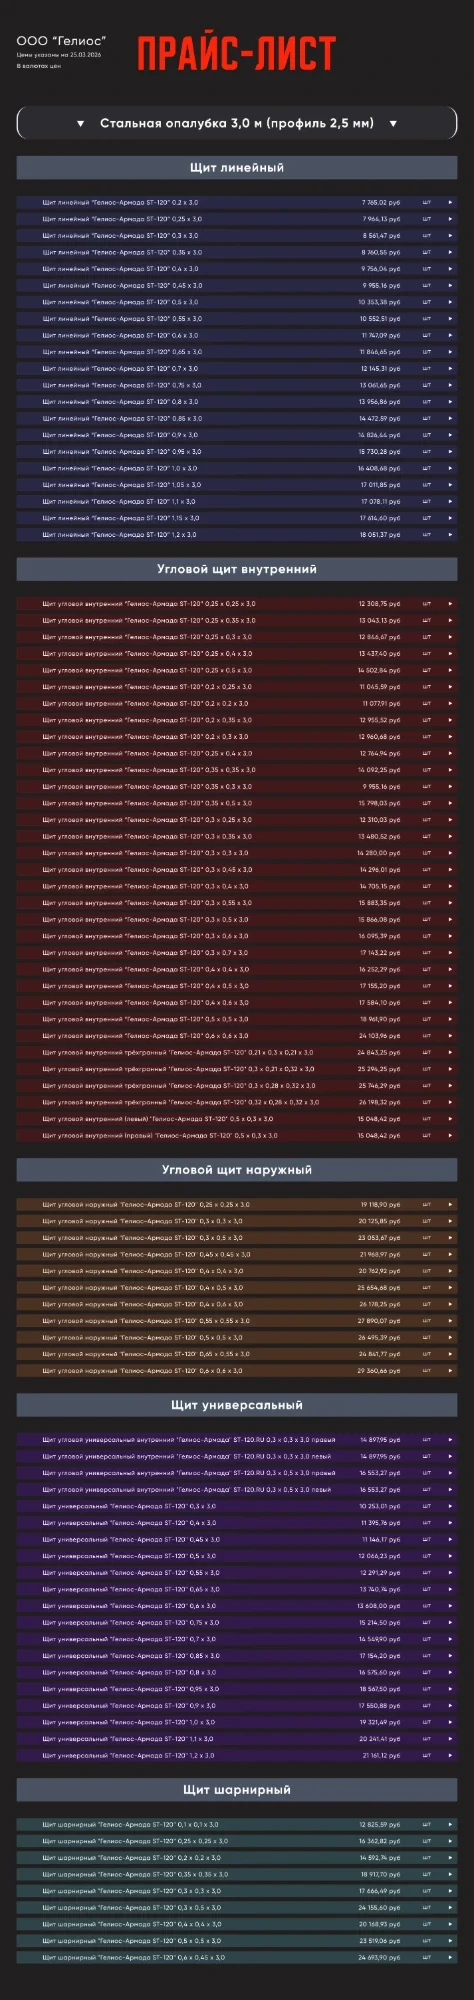
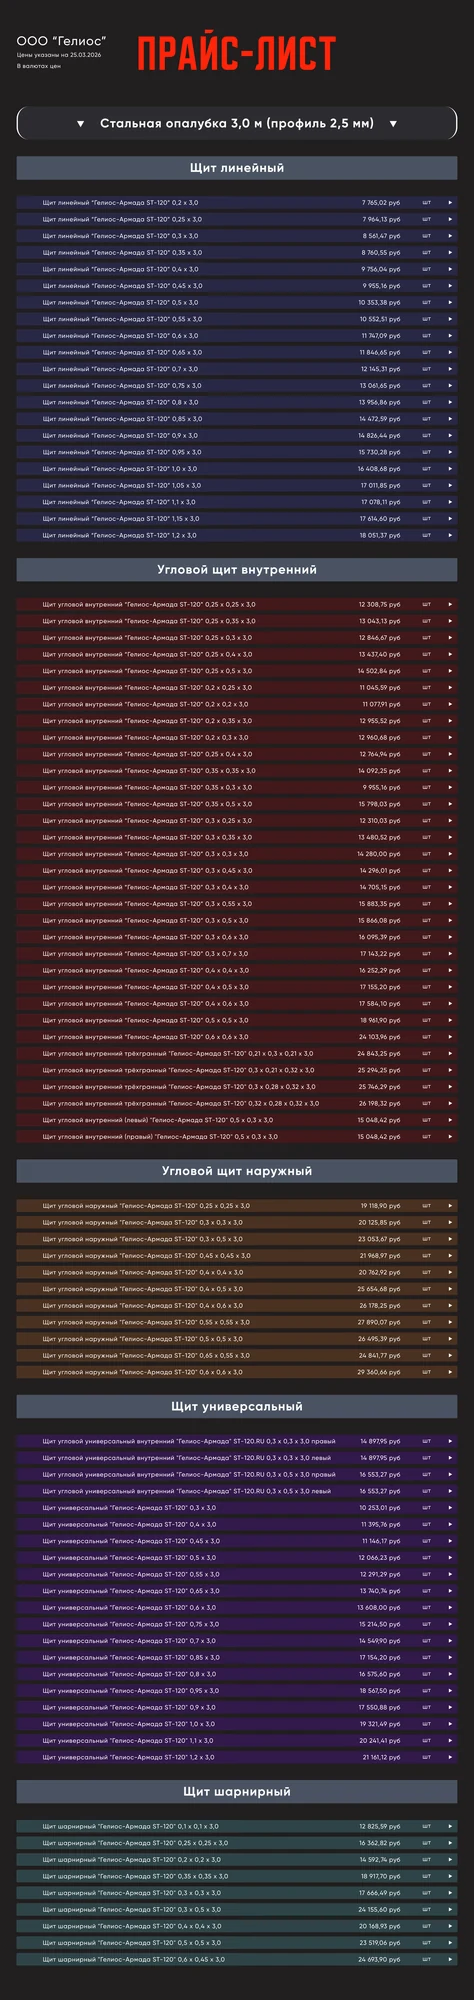
Прайс «после» в высоком разрешении: 3 части, склеиваются в окне просмотра
Claude-Session: https://claude.ai/code/session_01AWjKYXNcaWyZxq1zPrVMAa

diff --git a/assets/js/main.js b/assets/js/main.js
@@ -676,7 +676,16 @@
       var cap = state.caps[state.i];
       lbCap.hidden = !cap;
       lbCap.textContent = cap || "";
-      lbImg.src = state.list[state.i];
+      // слайд может состоять из нескольких частей (длинный прайс): их показываем подряд
+      var parts = state.list[state.i].split(",");
+      Array.prototype.slice.call(lbFrame.querySelectorAll(".lightbox__part")).forEach(function (e) { e.remove(); });
+      lbImg.src = parts[0];
+      parts.slice(1).forEach(function (src) {
+        var im = document.createElement("img");
+        im.className = "lightbox__img lightbox__part is-tall"; im.src = src; im.alt = ""; im.decoding = "async";
+        lbFrame.appendChild(im);
+      });
+      lbFrame.classList.toggle("is-multi", parts.length > 1);
       lbImg.alt = state.title + " — слайд " + (state.i + 1) + " из " + n;
       lbCount.textContent = (state.i + 1) + " / " + n;
       prev.hidden = next.hidden = lbThumbs.hidden = lbCount.hidden = n < 2;
@@ -702,7 +711,7 @@
           b.className = "lightbox__thumb";
           b.setAttribute("aria-label", "Слайд " + (k + 1));
           var t = document.createElement("img");
-          t.src = src; t.alt = ""; t.loading = "lazy";
+          t.src = src.split(",")[0]; t.alt = ""; t.loading = "lazy";
           t.onload = function () { b.classList.toggle("is-wide", t.naturalWidth > t.naturalHeight * 1.05); };
           b.appendChild(t);
           b.addEventListener("click", function () { state.i = k; render(); });
@@ -751,11 +760,12 @@
       var n = +el.dataset.slides, base = el.dataset.base || "assets/img/portfolio/" + el.dataset.work + "/";
       var list = [];
       for (var i = 1; i <= n; i++) list.push(base + i + ".webp");
+      if (el.dataset.parts) el.dataset.parts.split("|").forEach(function (p, k) { if (p) list[k] = p.split(",").map(function (x) { return base + x; }).join(","); });
       var loaded = false;
       el.addEventListener("pointerenter", function () {
         if (loaded) return;
         loaded = true;
-        list.slice(1, 4).forEach(function (src) { var im = new Image(); im.src = src; });
+        list.slice(1, 4).forEach(function (src) { var im = new Image(); im.src = src.split(",")[0]; });
       });
       var caps = el.dataset.captions ? el.dataset.captions.split("|") : [];
       el.addEventListener("click", function () { lightbox.open(el.dataset.title, list, 0, el, caps); });

diff --git a/index.html b/index.html
@@ -523,7 +523,7 @@
             <span class="work__plate"><b>Каталог компании «Гелиос»</b><span>33 страницы · 2 цвета</span></span>
             <span class="swatches" aria-hidden="true"><i class="swatch swatch--white is-on"></i><i class="swatch swatch--black"></i><small>2 цвета</small></span>
           </button>
-          <button class="exhibit exhibit--price" type="button" data-work="price" data-base="assets/img/attic/price/" data-slides="2" data-title="Преобразование прайса компании «Гелиос»" data-captions="Мелкий прайс в Excel|Стильный прайс с цветовым разделением блоков" data-reveal aria-label="Преобразование прайса компании «Гелиос» — открыть">
+          <button class="exhibit exhibit--price" type="button" data-work="price" data-base="assets/img/attic/price/" data-slides="2" data-parts="|after-1.webp,after-2.webp,after-3.webp" data-title="Преобразование прайса компании «Гелиос»" data-captions="Мелкий прайс в Excel|Стильный прайс с цветовым разделением блоков" data-reveal aria-label="Преобразование прайса компании «Гелиос» — открыть">
             <span class="exhibit__stage">
               <span class="price-strip price-strip--before"><img src="assets/img/attic/price/1.webp" alt="Прайс до: таблица в Excel" width="840" height="2000" loading="lazy" decoding="async"></span>
               <span class="price-strip price-strip--after"><img src="assets/img/attic/price/2.webp" alt="Прайс после: оформленный прайс-лист" width="474" height="2000" loading="lazy" decoding="async"></span>

diff --git a/assets/css/main.css b/assets/css/main.css
@@ -1590,6 +1590,8 @@ em { font-family: var(--f-serif); font-style: italic; font-weight: 600; color: v
 .lightbox__img.is-loading { opacity: 0.35; }
 .lightbox__frame { max-height: 72vh; overflow-y: auto; border-radius: 18px; overscroll-behavior: contain; scrollbar-width: thin; scrollbar-color: rgba(255, 177, 92, 0.5) transparent; }
 .lightbox__img.is-tall { width: min(820px, calc(100vw - 200px)); height: auto; max-height: none; max-width: none; border-radius: 18px; }
+.lightbox__frame.is-multi .lightbox__img { display: block; border-radius: 0; box-shadow: none; }
+.lightbox__frame.is-multi { box-shadow: 0 0 0 1px rgba(255, 196, 130, 0.35), 0 40px 80px -30px #000; }
 .lightbox__cap { margin: 0; padding: 8px 16px; border-radius: 99px; background: rgba(255, 177, 92, 0.12); box-shadow: inset 0 0 0 1px rgba(255, 196, 130, 0.5); color: var(--gold); font-size: 14.5px; font-weight: 600; }
 .lightbox__img.is-wide { width: auto; height: auto; max-width: min(1100px, calc(100vw - 200px)); max-height: 72vh; }
 .lightbox__arrow { display: grid; place-items: center; width: 52px; height: 52px; flex: none; border: 0; border-radius: 50%; color: var(--text); background: rgba(255, 236, 210, 0.08); box-shadow: inset 0 0 0 1px var(--line-2); cursor: pointer; transition: background 0.3s, box-shadow 0.3s; }
